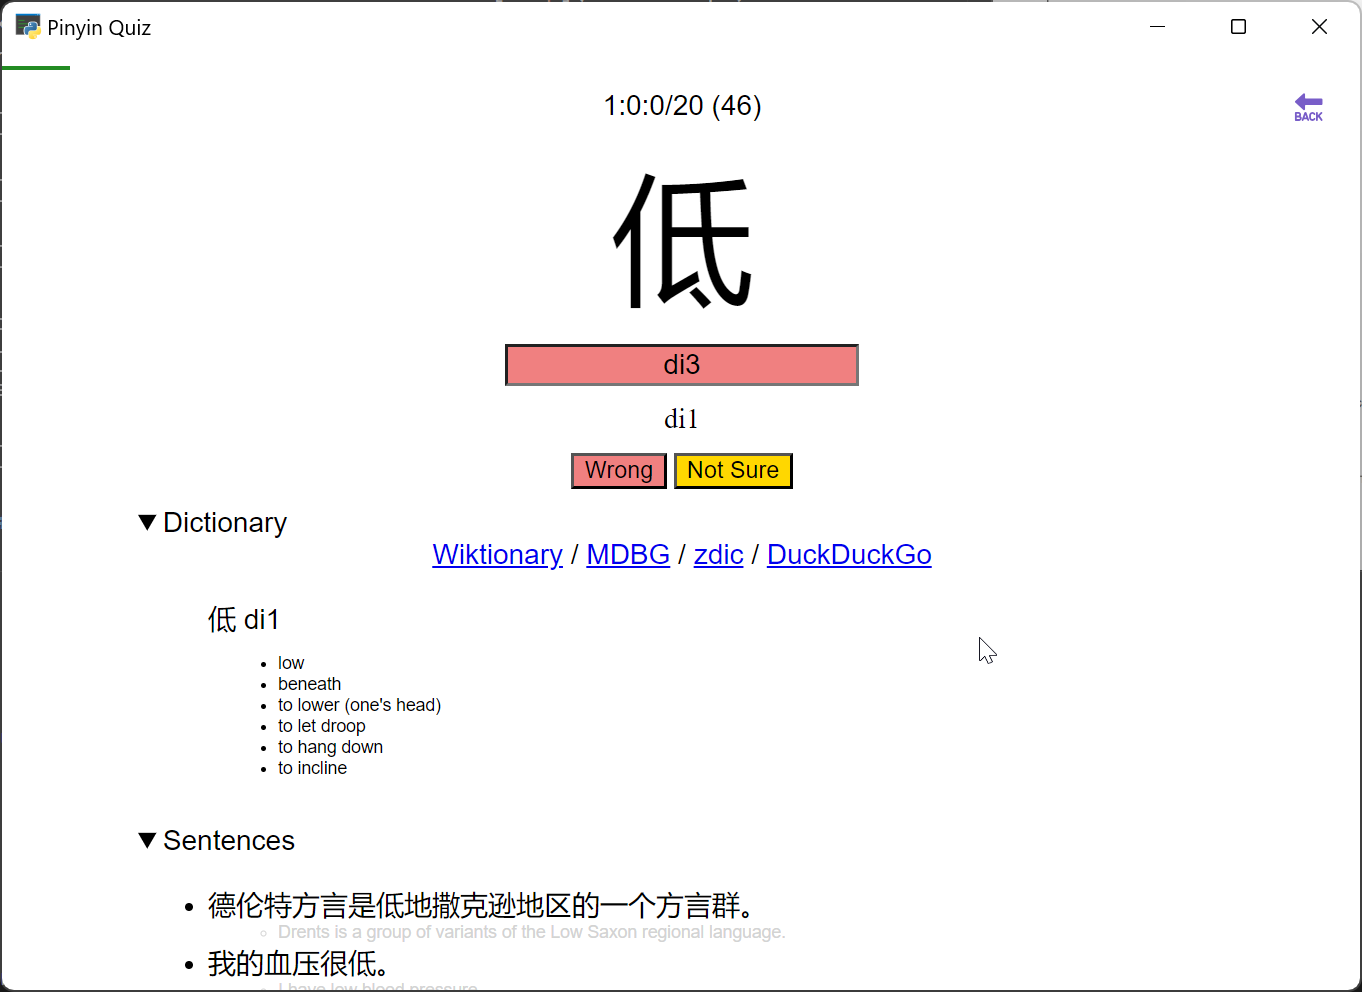
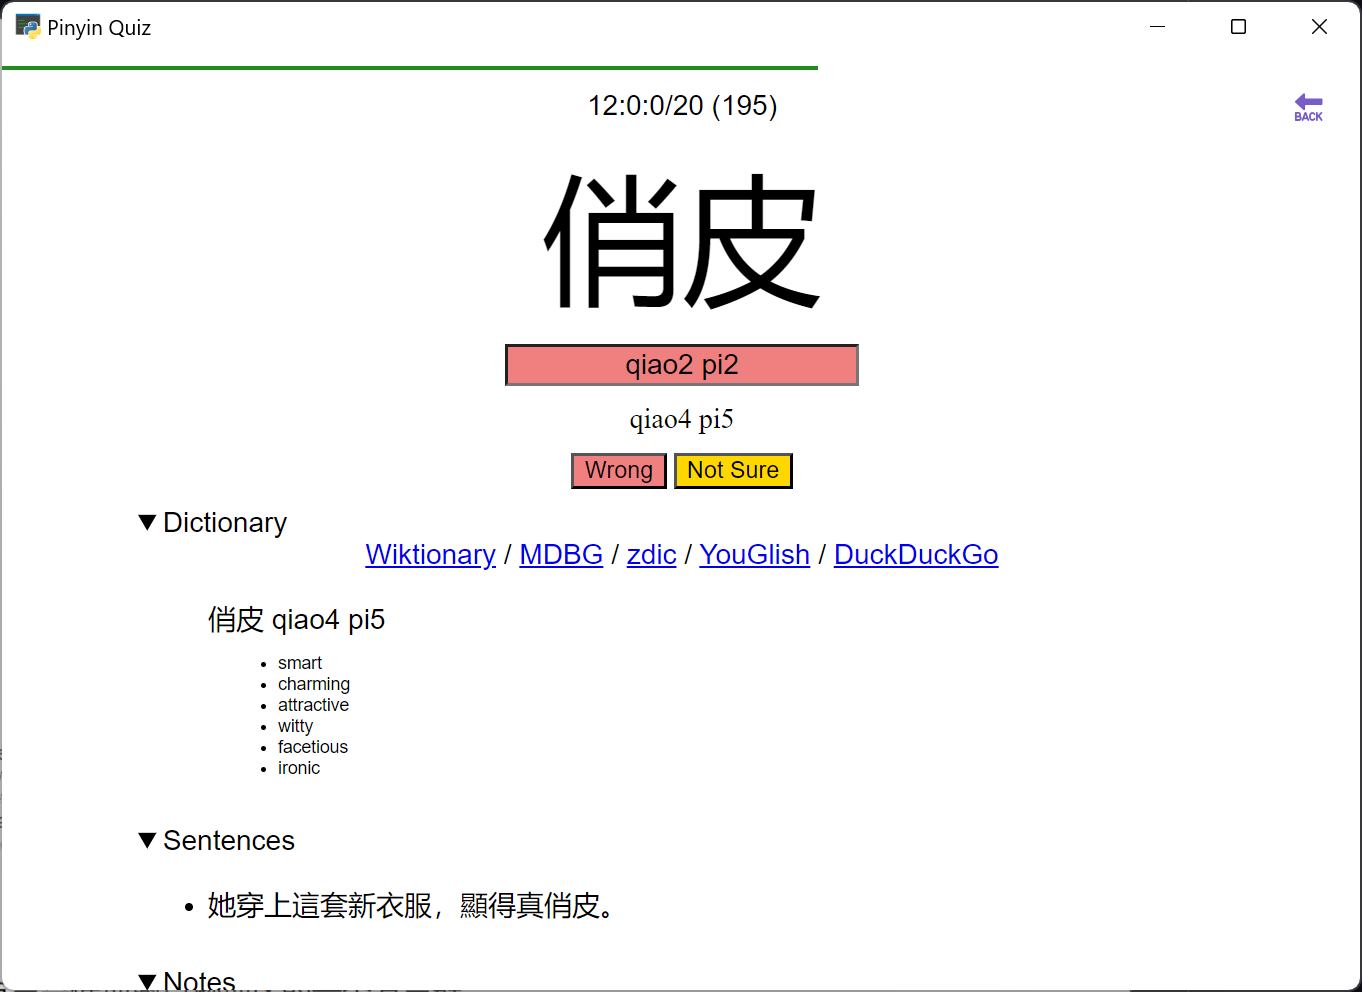
(feat) add YouGlish; prevent accidental double-enter

diff --git a/web/quiz.html b/web/quiz.html
@@ -112,6 +112,13 @@
           >
           /
           <a
+            href="https://youglish.com/pronounce/__voc__/chinese"
+            target="_blank"
+            rel="noopener noreferrer"
+            >YouGlish</a
+          >
+          /
+          <a
             href="https://duckduckgo.com/?t=ffab&q=__voc__&ia=web"
             target="_blank"
             rel="noopener noreferrer"

diff --git a/web/quiz/quiz.js b/web/quiz/quiz.js
@@ -83,6 +83,11 @@ document.addEventListener("keydown", (ev) => {
       if (!state.isRepeat) {
         newVocabList();
       }
+      break;
+    case "Enter":
+      if (!elInput.value) {
+        ev.preventDefault();
+      }
   }
 });
 

diff --git a/README.md b/README.md
@@ -14,6 +14,8 @@ No typo checking. However, there is a middle-way button, "Not Sure".
 
 ![Due Quiz](_README/due.png)
 
+![Dictionaries](_README/image.png)
+
 ![Dictionaries](_README/right.png)
 
 ![Select reading](_README/select.png)
